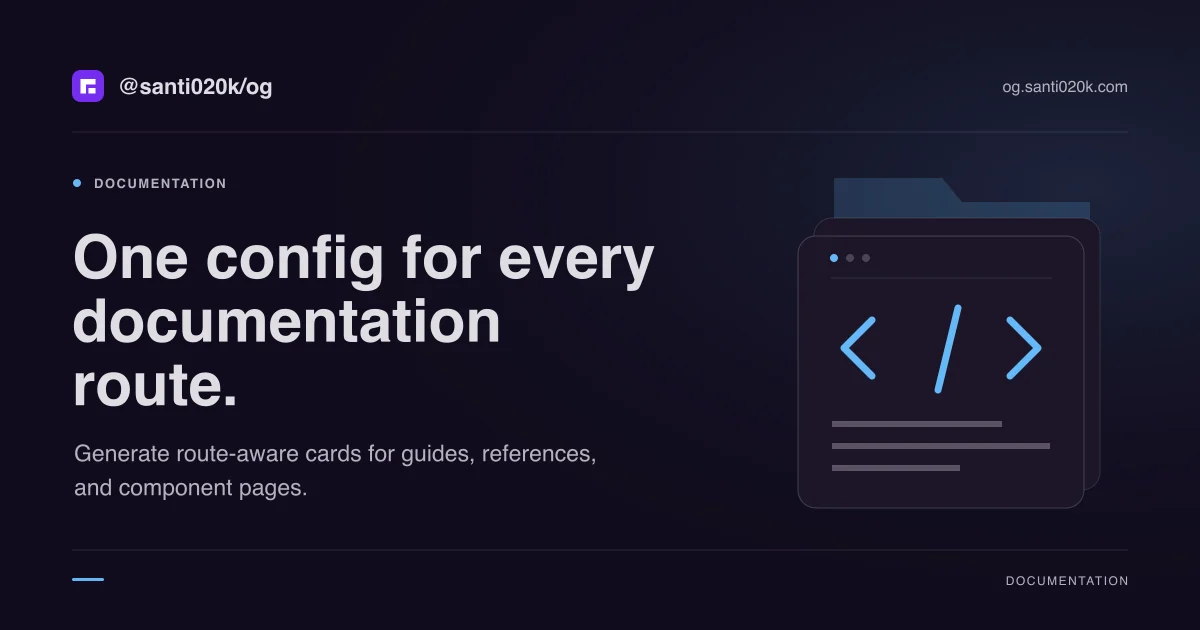
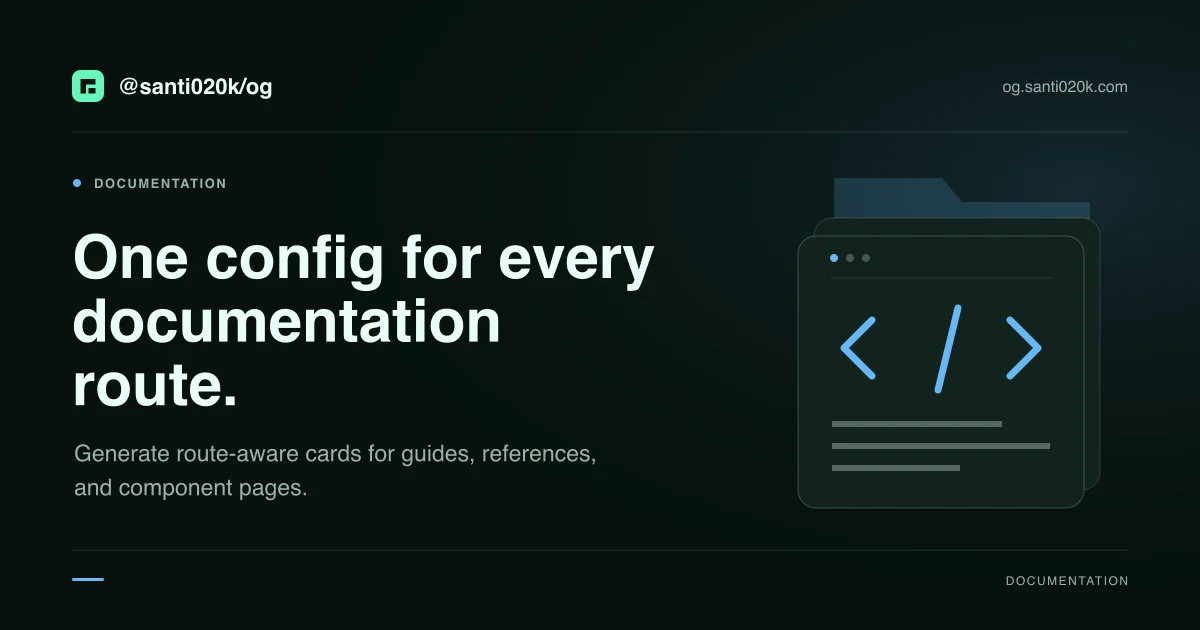
fix(web): restore mint identity and adopt inset ribbon navigation
Keep OG branding distinct while retaining shared typography and Lumen components.
Regenerate app icons and branded social previews. Verify both themes and responsive navigation.

diff --git a/apps/web/src/styles/global.css b/apps/web/src/styles/global.css
@@ -1,5 +1,18 @@
-/* The shared Theme package owns palette and typography. OG only composes them. */
+/* OG keeps its mint identity; shared typography and Lumen use these semantic tokens. */
 :root {
+  --canvas: 150 42% 5%;
+  --surface: 153 35% 8%;
+  --surface-muted: 154 32% 11%;
+  --surface-strong: 154 27% 16%;
+  --line: 155 34% 22%;
+  --ink: 153 100% 96%;
+  --ink-soft: 153 25% 76%;
+  --ink-muted: 153 25% 76%;
+  --brand: 157 88% 68%;
+  --brand-solid: 157 60% 43%;
+  --brand-soft: 155 43% 14%;
+  --on-brand: 150 42% 5%;
+  --accent: 157 88% 68%;
   --og-ink: hsl(var(--ink));
   --og-muted: hsl(var(--ink-soft));
   --og-paper: hsl(var(--canvas));
@@ -12,7 +25,21 @@
   font-synthesis: none;
   text-rendering: optimizeLegibility;
 }
-:root[data-theme="light"] { --ink-muted: var(--ink-soft); }
+:root[data-theme="light"] {
+  --canvas: 150 35% 97%;
+  --surface: 150 25% 99%;
+  --surface-muted: 151 28% 93%;
+  --surface-strong: 151 25% 88%;
+  --line: 153 20% 78%;
+  --ink: 150 42% 9%;
+  --ink-soft: 153 18% 32%;
+  --ink-muted: 153 18% 32%;
+  --brand: 157 72% 24%;
+  --brand-solid: 157 72% 24%;
+  --brand-soft: 155 38% 90%;
+  --on-brand: 150 35% 97%;
+  --accent: 157 72% 24%;
+}
 * { box-sizing: border-box; }
 html { scroll-behavior: smooth; scroll-padding-top: 120px; }
 body { margin: 0; background: var(--og-paper); }
@@ -23,8 +50,11 @@ img { max-width: 100%; }
 .shell { width: min(72rem, calc(100% - 5rem)); margin-inline: auto; }
 .skip-link { position: fixed; top: 12px; left: 12px; z-index: 100; padding: 12px 16px; color: var(--og-paper); background: var(--og-ink); transform: translateY(-180%); border-radius: .75rem; }
 .skip-link:focus { transform: none; }
-.site-header { position: sticky; top: 0; z-index: 20; padding-top: 16px; background: var(--og-paper); }
-.header-inner { position: relative; display: flex; align-items: center; min-height: 76px; gap: 20px; padding-inline: 20px; border: 1px solid var(--og-line); border-radius: 1.25rem 1.25rem .5rem .5rem; background: var(--og-panel); box-shadow: 0 8px 24px hsl(var(--ink) / .04); }
+.site-header { position: sticky; top: 0; z-index: 20; background: var(--og-paper); }
+.header-inner { position: relative; display: flex; align-items: center; width: min(68rem, calc(100% - 7rem)); min-height: 88px; gap: 20px; padding: 16px 24px; border: 1px solid var(--og-line); border-top: 0; border-radius: 0 0 1.5rem 1.5rem; background: var(--og-panel); }
+.header-inner::before, .header-inner::after { position: absolute; top: 0; width: 24px; height: 24px; content: ''; pointer-events: none; background: radial-gradient(circle at 0 100%, transparent 23px, var(--og-panel) 24px); }
+.header-inner::before { left: -24px; transform: scaleX(-1); }
+.header-inner::after { right: -24px; }
 .brand { display: inline-flex; gap: 10px; align-items: center; font-size: 14px; font-weight: 600; letter-spacing: -.04em; white-space: nowrap; min-height: 44px; }
 .brand img { border-radius: .6rem; }
 .desktop-nav { display: flex; gap: 6px; margin-left: auto; font-size: 12px; font-weight: 500; }
@@ -253,8 +283,8 @@ footer { border-top: 1px solid var(--og-line); }
 }
 @media (max-width: 680px) {
   .shell { width: calc(100% - 2.5rem); }
-  .site-header { padding-top: 10px; }
-  .header-inner { min-height: 68px; gap: 4px; flex-wrap: wrap; border-radius: 1rem; }
+  .site-header { padding-top: 0; }
+  .header-inner { width: calc(100% - 3.5rem); min-height: 76px; padding-block: 12px; gap: 4px; border-radius: 0 0 1.25rem 1.25rem; }
   .brand { font-size: 12px; gap: 7px; }
   .brand img { width: 28px; height: 28px; }
   .desktop-nav, .github-link { display: none; }
@@ -263,7 +293,7 @@ footer { border-top: 1px solid var(--og-line); }
   .mobile-nav summary { display: flex; min-width: 44px; min-height: 44px; align-items: center; justify-content: center; cursor: pointer; list-style: none; }
   .mobile-nav summary::-webkit-details-marker { display: none; }
   .mobile-nav summary > span:not([aria-hidden]) { position: absolute; width: 1px; height: 1px; overflow: hidden; clip-path: inset(50%); }
-  .header-inner:has(.mobile-nav[open]) { border-radius: 1rem 1rem 0 0; }
+  .header-inner:has(.mobile-nav[open]) { border-radius: 0; }
   .mobile-nav nav { position: absolute; top: 100%; left: -1px; right: -1px; padding: 8px 12px 16px; border: 1px solid var(--og-line); border-top: 0; border-radius: 0 0 1rem 1rem; background: var(--og-panel); box-shadow: 0 16px 24px hsl(var(--canvas) / .12); }
   .mobile-nav nav a { display: flex; gap: 18px; align-items: center; min-height: 56px; padding-inline: 8px; border-top: 1px solid var(--og-line); font-size: 14px; }
   .mobile-nav nav a > span { color: var(--og-muted); font-size: 10px; }

diff --git a/CONTRIBUTING.md b/CONTRIBUTING.md
@@ -19,7 +19,9 @@ extraction path is not used by this adapter. Consumers wanting a clean dependenc
 an equivalent package-manager override to fflate 0.7.5. Recheck upstream metadata before publication;
 do not claim the workspace audit establishes a clean consumer audit.
 
-The docs consume Lumen 4 and the shared Santi020k Theme palette with locally served Montserrat.
+The docs retain OG’s mint-green palette with Lumen 4 and shared Santi020k typography, using locally
+served Montserrat. Navigation follows the website’s inset ribbon reference (option 3), with an
+attached keyboard-accessible menu on mobile. Light mode uses deeper green accents for contrast.
 Keep package presets brand-neutral; site-specific brand artwork belongs in `apps/web/og.config.mjs`.
 `pnpm --filter @santi020k/og-web run generate:brand` rebuilds the raster app icons from `icon.svg`.
 The website build regenerates icons before OG cards and tracks both source assets in the card cache.

diff --git a/packages/og/CHANGELOG.md b/packages/og/CHANGELOG.md
@@ -12,8 +12,8 @@
   footer-safe long copy, complete layout scaling, and raster header-logo normalization.
 - Refresh compatible dependencies and security patches; retain tested TypeScript and Satori
   versions where newer releases fail the supported toolchain or Node.js renderer.
-- Align the documentation site with shared Santi020k Theme tokens and Lumen 4, including light
-  and dark modes, responsive navigation, optional reveals, and Astro page transitions.
+- Refresh the documentation site with OG’s mint palette, shared typography and Lumen 4, including
+  light and dark modes, inset ribbon navigation, optional reveals, and Astro page transitions.
 
 Preset appearance changes deliberately regenerate cached cards (preset version 6). Existing
 configuration and renderer contracts remain compatible. Inspect regenerated tracked assets before
